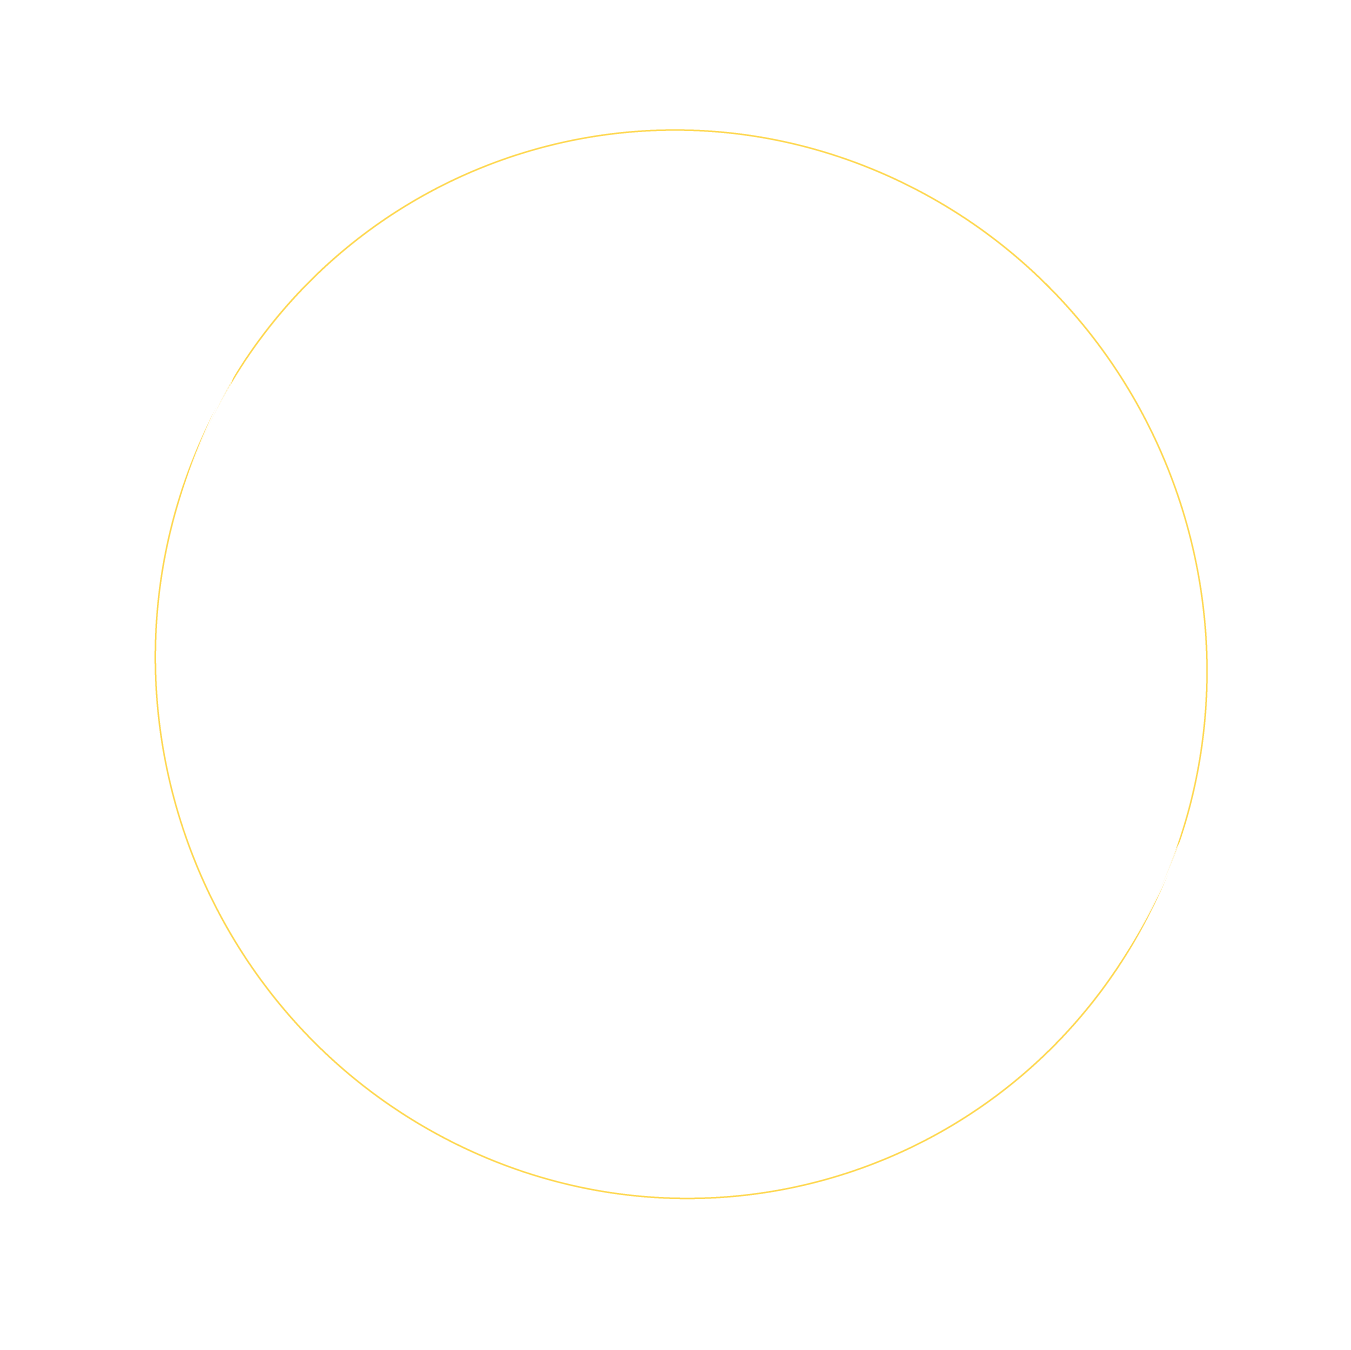
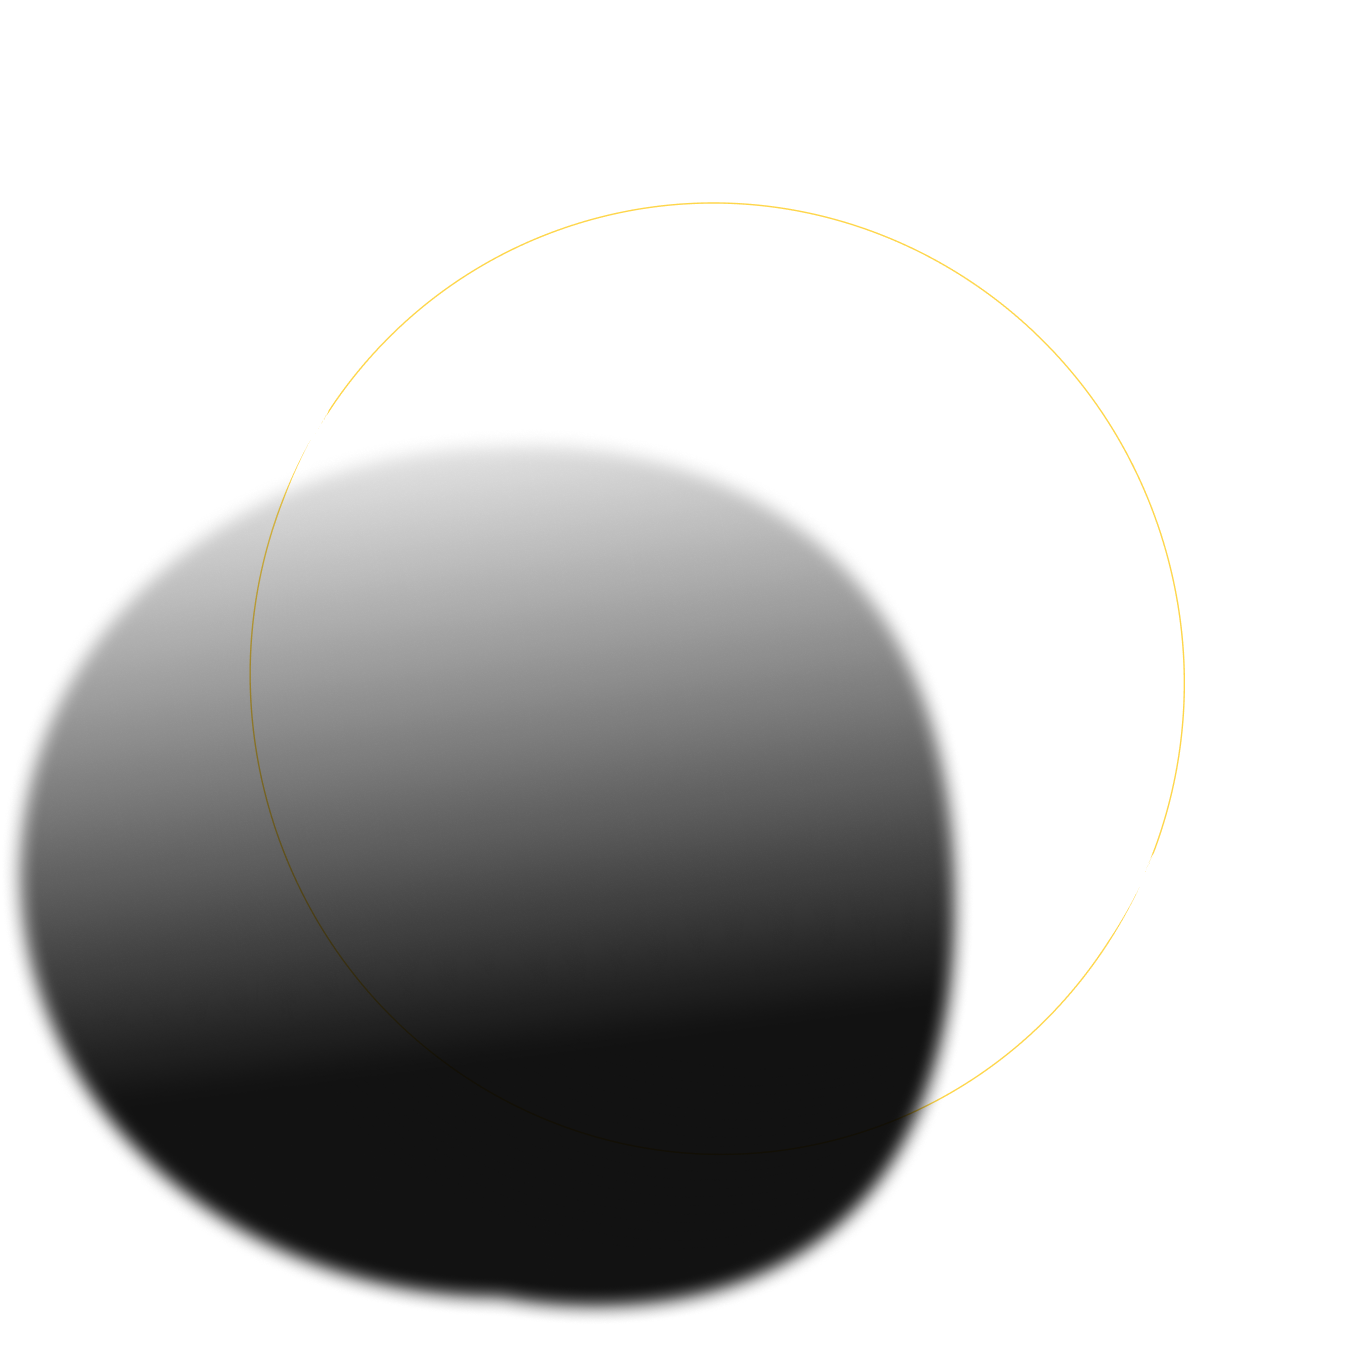
chore: use fade circle and update styles

diff --git a/src/components/Landing/Landing.scss b/src/components/Landing/Landing.scss
@@ -1,19 +1,23 @@
 .landing {
   position: relative;
   display: grid;
-  grid-template-columns: 50vw 50vw;
+  grid-template-columns: 65vw 35vw;
   margin-bottom: 100px;
+
+  @include respond('smallDesktop') {
+    margin-bottom: 300px;
+  }
 
   @include respond('tablet') {
     display: block;
-    margin-bottom: 50px;
+    margin-bottom: 0;
   }
 
   &__header {
     font-family: 'NeueMachinaMedium';
     font-size: 58px;
     line-height: 1.3;    
-    margin-top: 350px;
+    margin-top: 280px;
     margin-bottom: 30px;
 
     @include respond('tablet') {
@@ -44,7 +48,7 @@
   &__pattern-circle {
     position: relative;
     width: 70vw;
-    left: -5vw;
+    left: -7vw;
 
     @include respond('tablet') {
       width: 100vw;
@@ -59,12 +63,11 @@
 
   &__gradient {
     position: absolute;
-    top: 30%;
+    top: 0;
     right: -$app-side-padding-desktop;
 
     @include respond('tablet') {
       right: -$app-side-padding-tablet;
-      top: 0;
     }
 
     @include respond('mobile') {

diff --git a/src/components/Landing/Landing.vue b/src/components/Landing/Landing.vue
@@ -4,7 +4,7 @@
       <transition name="fade" appear>
         <h1 class="landing__header">
           <app-title>Personalization</app-title>
-          to solve the greatest challenges in healthcare
+          to solve the greatest <br />challenges in healthcare
         </h1>
       </transition>
       <transition name="fade" appear>

diff --git a/src/styles/_mixins.scss b/src/styles/_mixins.scss
@@ -4,6 +4,12 @@
 }
 
 @mixin respond ($breakpoint) {
+  @if $breakpoint == smallDesktop {
+    @media only screen and (max-width: 1400px) {
+      @content;
+    }
+  }
+
   @if $breakpoint == tablet {
     @media only screen and (max-width: 1024px) {
       @content;

diff --git a/src/components/Applications/Applications.scss b/src/components/Applications/Applications.scss
@@ -1,6 +1,7 @@
 .applications {
   @include sectionBorder();
   position: relative;
+  margin-bottom: 250px;
 
   @include respond('tablet') {
     margin-bottom: 100px;
